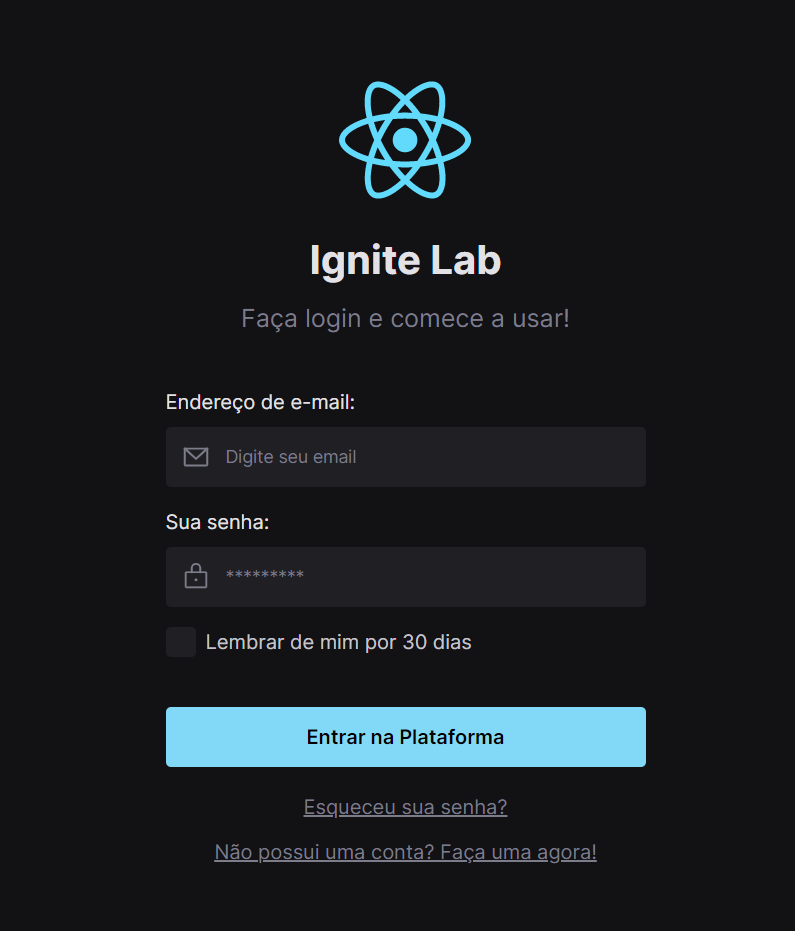
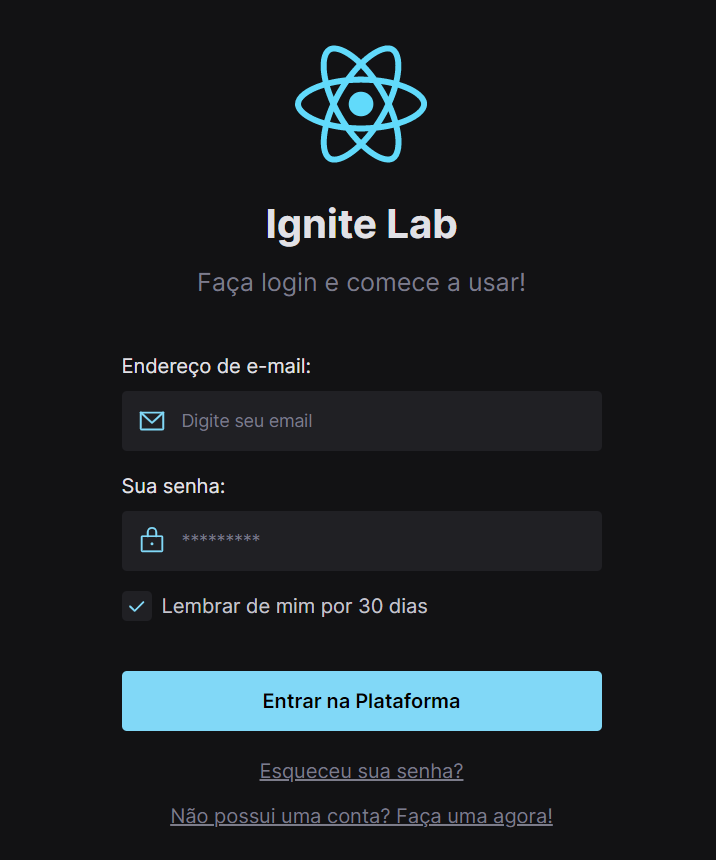
up application complete

diff --git a/src/App.tsx b/src/App.tsx
@@ -23,8 +23,8 @@ function App() {
       <label className='flex flex-col gap-2' htmlFor="email">
         <Text size='sm'>Endereço de e-mail:</Text>
         <TextInput.Root>
-          <TextInput.Icon className='focus-within:text-cyan-500'>
-            <EnvelopeSimple />
+          <TextInput.Icon>
+            <EnvelopeSimple className='text-cyan-500' />
           </TextInput.Icon>
 
           <TextInput.Input placeholder='Digite seu email' id='email' />
@@ -33,9 +33,9 @@ function App() {
 
       <label className='flex flex-col gap-2' htmlFor="password">
         <Text size='sm'>Sua senha:</Text>
-        <TextInput.Root >
+        <TextInput.Root>
           <TextInput.Icon>
-            <Lock />
+            <Lock className='text-cyan-500' />
           </TextInput.Icon>
 
           <TextInput.Input placeholder='*********' id='password' />

diff --git a/index.html b/index.html
@@ -9,6 +9,8 @@
     <meta name="viewport" content="width=device-width, initial-scale=1.0" />
 
     <link href="https://fonts.googleapis.com/css2?family=Inter:wght@400;500;600;700&display=swap" rel="stylesheet"/>
+
+    <link rel="shortcut icon" href="/src/assets/react-icon.png" type="image/x-icon">
     <title>Lab Design System</title>
   </head>
   <body>

diff --git a/src/components/TextInput.tsx b/src/components/TextInput.tsx
@@ -3,6 +3,7 @@ import { InputHTMLAttributes, ReactNode } from 'react'
 
 export interface TaskInputRootProps {
   children: ReactNode
+  //className: string
 }
 
 
